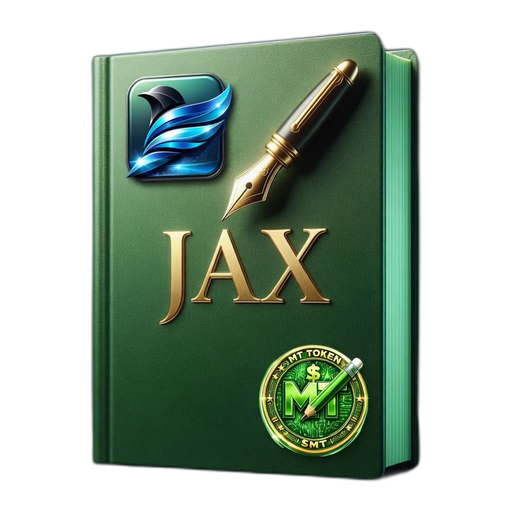
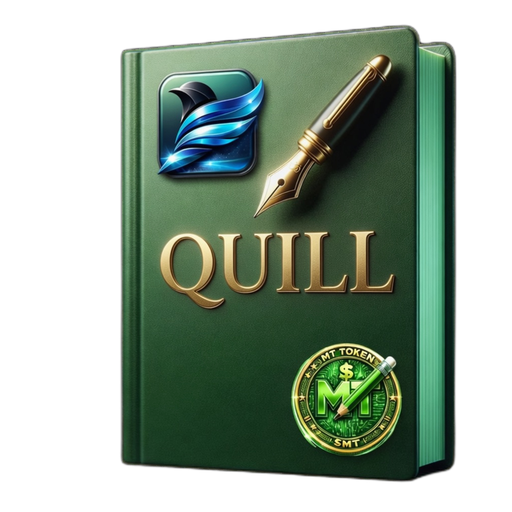
Rename the product to Quill. Xero already uses JAX.
The book mark now says QUILL. Site, desk, feed ping, and docs follow.

diff --git a/src/main.js b/src/main.js
@@ -126,7 +126,7 @@ async function boot() {
   try {
     const session = await request('/api/session');
     if (session.res.status === 503) {
-      bootError = session.data.error || 'JAX access is not configured';
+      bootError = session.data.error || 'Quill access is not configured';
       ready = true;
       render();
       return;
@@ -552,7 +552,7 @@ function fillBank() {
       const names = (bank.connections || []).map((row) => row.institution).filter(Boolean).join(', ');
       if (names) el.textContent = `Connected: ${names}.`;
       else if (bank.connected) el.textContent = 'A Basiq user sits on this desk. Connect a bank to pick the institution.';
-      else el.textContent = 'Basiq is on. Connect a bank opens their consent page. JAX does not keep the bank password.';
+      else el.textContent = 'Basiq is on. Connect a bank opens their consent page. Quill does not keep the bank password.';
       const connections = (bank.connections || [])
         .map((conn) => {
           const accounts = (conn.accounts || [])
@@ -618,7 +618,7 @@ function fillPractice() {
       asks
         .map((ask) => {
           const keeper = keepers.find((k) => k.id === ask.keeperId);
-          return `<article class="pay"><div class="when">${esc(ask.createdAt?.slice(0, 10) || '')} · to ${esc(keeper?.name || 'JAX')}</div><b>${esc(ask.name)}</b><div class="muted">${esc(ask.email)} ${esc(ask.phone)}</div><div class="muted">${esc(ask.message)}</div></article>`;
+          return `<article class="pay"><div class="when">${esc(ask.createdAt?.slice(0, 10) || '')} · to ${esc(keeper?.name || 'Quill')}</div><b>${esc(ask.name)}</b><div class="muted">${esc(ask.email)} ${esc(ask.phone)}</div><div class="muted">${esc(ask.message)}</div></article>`;
         })
         .join('');
   });
@@ -874,8 +874,8 @@ function deskView() {
         <div class="field"><label for="phone">Phone</label><input id="phone" value="${esc(profile.phone)}" /></div>
       </div>
       <div class="field"><label for="email">Email</label><input id="email" value="${esc(profile.email)}" /></div>
-      <label class="check"><input id="jax-auto" type="checkbox" ${profile.jaxAuto ? 'checked' : ''}/> Apply JAX matches at 0.95 or above when a statement is imported</label>
-      <p class="note">JAX here is a rule: same remaining amount, vendor name in the description, date within three days. It is not a trained model and it does not talk to a bank.</p>
+      <label class="check"><input id="jax-auto" type="checkbox" ${profile.jaxAuto ? 'checked' : ''}/> Apply Quill matches at 0.95 or above when a statement is imported</label>
+      <p class="note">Quill here is a rule: same remaining amount, vendor name in the description, date within three days. It is not a trained model and it does not talk to a bank.</p>
       ${
         effectiveKind() === 'partnership'
           ? `<h3>Partners</h3>
@@ -913,7 +913,7 @@ function deskView() {
     </div>
     <div class="group">
       <h3>Bank statements</h3>
-      <p class="note">Import a CSV with date, description, and amount. Money out is negative. High-confidence matches can be applied by JAX.</p>
+      <p class="note">Import a CSV with date, description, and amount. Money out is negative. High-confidence matches can be applied by Quill.</p>
       <button class="solid" type="button" data-act="pick-statement">Import statement CSV</button>
       ${
         unmatched.length
@@ -923,7 +923,7 @@ function deskView() {
                 return `<article class="pay">
                   <div class="when">${esc(longDate(txn.postedOn))} · ${money(txn.amountCents)}</div>
                   <b>${esc(txn.description)}</b>
-                  ${guess.item ? `<div class="muted">JAX ${guess.score.toFixed(2)} · ${esc(guess.item.vendor)} ${esc(longDate(guess.item.date))}</div>` : `<div class="muted">No open bill looks close.</div>`}
+                  ${guess.item ? `<div class="muted">Quill ${guess.score.toFixed(2)} · ${esc(guess.item.vendor)} ${esc(longDate(guess.item.date))}</div>` : `<div class="muted">No open bill looks close.</div>`}
                   ${
                     guess.item
                       ? `<div class="actions"><button class="solid" type="button" data-act="match-txn" data-txn="${esc(txn.id)}" data-bill="${esc(guess.item.billId)}" data-when="${esc(guess.item.originalDate)}">Match</button></div>`
@@ -941,7 +941,7 @@ function deskView() {
       <div id="practice-inbox">Loading…</div>
     </div>
     <div class="group">
-      <h3>Install JAX</h3>
+      <h3>Install Quill</h3>
       <p>The same desk in a native shell. iOS first in Xcode. Mac in Xcode. Windows with Electron, then pack an appx for the Microsoft Store.</p>
       <p class="note">iPhone: on a Mac open <span class="muted">apps/ios/JAX.xcodeproj</span> and Run on a simulator.<br/>Mac: open <span class="muted">apps/macos/JAX.xcodeproj</span> and Run on My Mac.<br/>Windows: in <span class="muted">apps/windows</span> run npm install && npm start. npm run pack builds the Store appx.</p>
       <p class="note">Feed SDK: <span class="muted">sdk/jax-feed</span>. Ping and post with LEDGER_FEED_TOKEN. Lines land on Desk for matching.</p>
@@ -1077,10 +1077,10 @@ function shell(body) {
     </nav>
     <div>
       <header class="top">
-        <div class="brand"><img class="mark" src="/logo.png" width="512" height="512" alt="JAX"/><div><h1>JAX</h1><p>${esc(book?.deskName || 'MT ECO SYSTEM')} · Melbourne dates</p></div></div>
+        <div class="brand"><img class="mark" src="/logo.png" width="512" height="512" alt="Quill"/><div><h1>Quill</h1><p>${esc(book?.deskName || 'MT ECO SYSTEM')} · Melbourne dates</p></div></div>
         <button class="ghost" type="button" data-act="lock">Log out</button>
       </header>
-      <main class="main">${flashMsg ? `<p class="status" role="status">${esc(flashMsg)}</p>` : ''}${body}<p class="foot">JAX by Futuret3ch and MemeTorrent for the MT ECO SYSTEM. ${saved ? `Saved ${esc(saved)}.` : 'Nothing saved yet.'} Dates use Melbourne time.</p></main>
+      <main class="main">${flashMsg ? `<p class="status" role="status">${esc(flashMsg)}</p>` : ''}${body}<p class="foot">Quill by Futuret3ch and MemeTorrent for the MT ECO SYSTEM. ${saved ? `Saved ${esc(saved)}.` : 'Nothing saved yet.'} Dates use Melbourne time.</p></main>
     </div>
     ${sheet?.type === 'bill' ? billSheet() : ''}
     ${sheet?.type === 'pay' ? paySheet() : ''}
@@ -1091,9 +1091,9 @@ function shell(body) {
 
 function lockView() {
   return `<div class="lock"><div class="card">
-    <img class="mark" src="/logo.png" width="512" height="512" alt="JAX"/>
+    <img class="mark" src="/logo.png" width="512" height="512" alt="Quill"/>
     <p class="note" style="letter-spacing:.14em;text-transform:uppercase;font-weight:680">Futuret3ch · MemeTorrent $MT</p>
-    <h1>JAX</h1>
+    <h1>Quill</h1>
     <p class="note">For self-employed people, businesses, and corporations. The desk is locked.</p>
     <p class="note"><a href="/" style="color:inherit">Back to the site</a></p>
     ${bootError ? `<p class="errors">${esc(bootError)}</p>` : ''}
@@ -1109,7 +1109,7 @@ function render() {
   const focusId = focus?.id || '';
   const caret = focus?.selectionStart;
   if (!ready) {
-    root.innerHTML = `<div class="lock"><div class="card"><img class="mark" src="/logo.png" width="512" height="512" alt="JAX"/><h1>JAX</h1><p class="note">Opening…</p></div></div>`;
+    root.innerHTML = `<div class="lock"><div class="card"><img class="mark" src="/logo.png" width="512" height="512" alt="Quill"/><h1>Quill</h1><p class="note">Opening…</p></div></div>`;
     return;
   }
   if (!onAppPath()) {
@@ -1828,15 +1828,15 @@ root.addEventListener('click', (event) => {
       render();
       return;
     }
-    win.document.write(`<!DOCTYPE html><html lang="en-AU"><head><meta charset="utf-8"><title>JAX ${bill.direction === 'in' ? 'Invoice' : 'Bill'}</title>
+    win.document.write(`<!DOCTYPE html><html lang="en-AU"><head><meta charset="utf-8"><title>Quill ${bill.direction === 'in' ? 'Invoice' : 'Bill'}</title>
       <style>body{font-family:Georgia,serif;max-width:640px;margin:40px auto;color:#1b1914}h1{font-size:28px}table{width:100%;border-collapse:collapse}td{padding:8px 0;border-bottom:1px solid #ddd}</style></head><body>
-      <p>JAX · Futuret3ch and MemeTorrent · MT ECO SYSTEM</p>
+      <p>Quill · Futuret3ch and MemeTorrent · MT ECO SYSTEM</p>
       <h1>${bill.direction === 'in' ? 'Invoice' : 'Bill'}</h1>
       <p>${profile.legalName || book.deskName}<br>${profile.abn ? 'ABN ' + profile.abn : ''}<br>${profile.address} ${profile.suburb} ${profile.state} ${profile.postcode}</p>
       <p>To ${bill.vendor}<br>${bill.title}<br>Due ${bill.startsOn}</p>
       <table><tr><td>${bill.title}</td><td style="text-align:right">${formatAud(gst.total)}</td></tr>
       <tr><td>GST</td><td style="text-align:right">${formatAud(gst.gst)}</td></tr></table>
-      <p>This is from the JAX desk. It is not a lodged BAS.</p>
+      <p>This is from the Quill desk. It is not a lodged BAS.</p>
       </body></html>`);
     win.document.close();
     win.focus();

diff --git a/src/site.js b/src/site.js
@@ -15,7 +15,7 @@ function esc(s) {
 const SOLO = [
   'Invoices and quotes',
   'Bills and repeats on one card',
-  'Bank statement import and JAX matching',
+  'Bank statement import and Quill matching',
   'GST and BAS figures',
   'Live reports',
   'Payroll worksheet and super',
@@ -42,14 +42,14 @@ const HIVE = [
 ];
 
 const FEATS = [
-  ['JAX matching', 'Statement lines match bills when the amount, the name, and the date line up.'],
+  ['Quill matching', 'Statement lines match bills when the amount, the name, and the date line up.'],
   ['Bills and repeats', 'A monthly bill stays on one card. Pay or move a single date from there.'],
   ['Invoices and quotes', 'Send what they owe you. Print it with your ABN. Mark it paid when it lands.'],
   ['GST and BAS', 'GST in, GST out, and the BAS figures for the quarter.'],
   ['Bank statements', 'Drop in a statement and match the lines.'],
   ['Payroll', 'Gross, tax withheld, and super on a worksheet.'],
   ['Kilometres', 'ATO cents per kilometre, capped at 5,000 km.'],
-  ['On your phone and computer', 'JAX has an iOS Xcode project, a Mac app, and a Windows app you can run and pack for the Microsoft Store.'],
+  ['On your phone and computer', 'Quill has an iOS Xcode project, a Mac app, and a Windows app you can run and pack for the Microsoft Store.'],
 ];
 
 const MT_HOME = 'https://memetorrent.futuret3ch.com.au';
@@ -86,9 +86,9 @@ export function siteView() {
   return `<div class="site">
     <header class="site-bar">
       <div class="site-brand">
-        <a href="/"><img class="mark" src="/logo.png" width="512" height="512" alt="JAX"/></a>
+        <a href="/"><img class="mark" src="/logo.png" width="512" height="512" alt="Quill"/></a>
         <div>
-          <b>JAX by <a href="${FT_HOME}">Futuret3ch</a> and <a href="${MT_HOME}">MemeTorrent</a></b>
+          <b>Quill by <a href="${FT_HOME}">Futuret3ch</a> and <a href="${MT_HOME}">MemeTorrent</a></b>
           <div class="site-eco">for the <a href="${MT_HOME}">MT ECO SYSTEM</a></div>
         </div>
       </div>
@@ -173,14 +173,14 @@ export function siteView() {
       <section id="keepers">
         <div class="kicker site-eco">Keepers</div>
         <h2 style="font-family:var(--serif);font-size:40px;letter-spacing:-.04em">Accountants and bookkeepers.</h2>
-        <p style="color:#b7c4bc;max-width:52ch">Run a client on JAX. One desk. Their ABN on the print. Their BAS figures from the bills you entered. No partner portal, no extra product names.</p>
+        <p style="color:#b7c4bc;max-width:52ch">Run a client on Quill. One desk. Their ABN on the print. Their BAS figures from the bills you entered. No partner portal, no extra product names.</p>
         <div class="packs">
           <article class="pack"><h3>Accountants</h3><p>Open Tax. G1, 1A, 1B for the quarter. Export the BAS CSV. Print invoices with the client ABN.</p></article>
-          <article class="pack"><h3>Bookkeepers</h3><p>Enter bills, import the statement, let JAX match the lines, mark paid when the money moved.</p></article>
+          <article class="pack"><h3>Bookkeepers</h3><p>Enter bills, import the statement, let Quill match the lines, mark paid when the money moved.</p></article>
           <article class="pack"><h3>Firms</h3><p>Set the profile to company, partnership, or trust. Keep projects on the bills. Put the house on the Roll with no email or phone.</p></article>
         </div>
         <p style="color:#b7c4bc;max-width:52ch">A repeating bill stays on one card. Dates use Melbourne time. Kilometres use the ATO rate for the day of the trip.</p>
-        <p style="margin:18px 0 28px"><a class="go" href="/app" style="display:inline-flex;min-height:44px;border-radius:999px;padding:0 18px;align-items:center;background:#7dffb1;color:#06140e;text-decoration:none;font-weight:680">Open JAX</a></p>
+        <p style="margin:18px 0 28px"><a class="go" href="/app" style="display:inline-flex;min-height:44px;border-radius:999px;padding:0 18px;align-items:center;background:#7dffb1;color:#06140e;text-decoration:none;font-weight:680">Open Quill</a></p>
         <div class="packs">
           <article class="pack">
             <h3>Sign up as a keeper</h3>
@@ -200,9 +200,9 @@ export function siteView() {
           </article>
           <article class="pack">
             <h3>Ask a keeper</h3>
-            <p>The message goes to that keeper’s inbox. If the list is empty, it still saves for JAX.</p>
+            <p>The message goes to that keeper’s inbox. If the list is empty, it still saves for Quill.</p>
             <form id="ask-form">
-              <div class="field"><label for="a-keeper">Keeper</label><select id="a-keeper"><option value="">Anyone at JAX</option></select></div>
+              <div class="field"><label for="a-keeper">Keeper</label><select id="a-keeper"><option value="">Anyone at Quill</option></select></div>
               <div class="field"><label for="a-name">Your name</label><input id="a-name" required /></div>
               <div class="field"><label for="a-email">Your email</label><input id="a-email" type="email" required /></div>
               <div class="field"><label for="a-phone">Phone</label><input id="a-phone" /></div>
@@ -266,15 +266,15 @@ export function siteView() {
       <footer class="site-foot">
         <div class="foot-grid">
           <div>
-            <b>JAX</b>
-            <a href="#features">How JAX works</a>
+            <b>Quill</b>
+            <a href="#features">How Quill works</a>
             <a href="#roll">The Roll</a>
             <a href="#find">Find a keeper</a>
             <a href="#plans">Plans</a>
             <a href="/app">Open the desk</a>
           </div>
           <div>
-            <b>JAX for</b>
+            <b>Quill for</b>
             <a href="#keepers">Accountants and bookkeepers</a>
             <a href="#plans">Self-employed</a>
             <a href="#plans">Businesses</a>
@@ -289,7 +289,7 @@ export function siteView() {
             <a href="mailto:Support@futuret3ch.com.au">Support</a>
           </div>
         </div>
-        <p style="margin-top:22px">JAX by Futuret3ch and MemeTorrent for the MT ECO SYSTEM.</p>
+        <p style="margin-top:22px">Quill by Futuret3ch and MemeTorrent for the MT ECO SYSTEM.</p>
         <p>© ${esc(year)} MT-ECO SYSTEM — Developed by Futuret3ch and MemeTorrent. All core components self-hosted and self-built.</p>
         <div class="foot-links">${MT_FOOT.map(([label, href]) => `<a href="${esc(href)}">${esc(label)}</a>`).join('')}</div>
         <p class="foot-note">Built here. Hosted here. Keys stay with you.</p>
@@ -339,7 +339,7 @@ export function bindSite() {
   const paintKeepers = (keepers) => {
     if (askSelect) {
       askSelect.innerHTML =
-        '<option value="">Anyone at JAX</option>' +
+        '<option value="">Anyone at Quill</option>' +
         keepers.map((k) => `<option value="${esc(k.id)}">${esc(k.name)}${k.firm ? ' · ' + esc(k.firm) : ''}</option>`).join('');
     }
     if (!list) return;

diff --git a/lib/server.js b/lib/server.js
@@ -146,11 +146,11 @@ export async function handle(req, res) {
   const pathname = url.pathname.replace(/\/$/, '') || '/';
   try {
     if (pathname === '/api/health' && req.method === 'GET') {
-      return send(res, 200, { ok: true, name: 'JAX', by: 'Futuret3ch and MemeTorrent' });
+      return send(res, 200, { ok: true, name: 'Quill', by: 'Futuret3ch and MemeTorrent' });
     }
     if (pathname === '/api/session' && req.method === 'GET') {
       if (!process.env.LEDGER_ACCESS_CODE || !process.env.LEDGER_SESSION_SECRET) {
-        return send(res, 503, { error: 'JAX access is not configured' });
+        return send(res, 503, { error: 'Quill access is not configured' });
       }
       if (!sessionOk(req)) return send(res, 401, { error: 'Locked' });
       return send(res, 200, { ok: true });
@@ -184,10 +184,10 @@ export async function handle(req, res) {
       if (presented) {
         if (!feedTokenConfigured()) return send(res, 503, { error: 'No bank feed is connected' });
         if (!feedBearerOk(req)) return send(res, 401, { error: 'Feed token is not right' });
-        return send(res, 200, { ok: true, name: 'JAX', feed: true });
+        return send(res, 200, { ok: true, name: 'Quill', feed: true });
       }
       if (!sessionOk(req)) return send(res, 401, { error: 'Locked' });
-      return send(res, 200, { ok: true, name: 'JAX', feed: feedTokenConfigured() });
+      return send(res, 200, { ok: true, name: 'Quill', feed: feedTokenConfigured() });
     }
     if (pathname === '/api/feed' && req.method === 'POST') {
       const presented = presentedBearer(req);

diff --git a/index.html b/index.html
@@ -5,13 +5,13 @@
     <meta name="viewport" content="width=device-width, initial-scale=1, viewport-fit=cover" />
     <meta name="theme-color" content="#12362f" />
     <meta name="apple-mobile-web-app-capable" content="yes" />
-    <meta name="apple-mobile-web-app-title" content="JAX" />
+    <meta name="apple-mobile-web-app-title" content="Quill" />
     <meta name="mobile-web-app-capable" content="yes" />
     <meta
       name="description"
-      content="JAX by Futuret3ch and MemeTorrent for the MT ECO SYSTEM. For self-employed people, businesses, and corporations."
+      content="Quill by Futuret3ch and MemeTorrent for the MT ECO SYSTEM. For self-employed people, businesses, and corporations."
     />
-    <title>JAX · MT ECO SYSTEM</title>
+    <title>Quill · MT ECO SYSTEM</title>
     <link rel="icon" href="/favicon.svg" type="image/svg+xml" />
     <link rel="icon" href="/icon-192.png" type="image/png" sizes="192x192" />
     <link rel="apple-touch-icon" href="/icon-180.png" />

diff --git a/apps/windows/main.js b/apps/windows/main.js
@@ -4,7 +4,7 @@ function createWindow() {
   const win = new BrowserWindow({
     width: 1100,
     height: 760,
-    title: 'JAX',
+    title: 'Quill',
     webPreferences: {
       contextIsolation: true,
     },

diff --git a/sdk/jax-feed/src/index.js b/sdk/jax-feed/src/index.js
@@ -1,5 +1,5 @@
 /**
- * JAX Feed SDK
+ * Quill Feed SDK
  * POST /api/feed with Bearer token.
  * amountCents is signed: money out is negative.
  */

diff --git a/README.md b/README.md
@@ -1,4 +1,4 @@
-# JAX
+# Quill
 
 Books for the MT ECO SYSTEM, by Futuret3ch and MemeTorrent. Schedule money going out and money coming in, in Australian dollars, then record what was actually paid.
 
@@ -10,9 +10,9 @@ There is no sample data. The desk starts empty.
 
 Unlock with the access code, then add a bill. Choose **We pay** or **They pay us**, the amount, GST, the first due date, and how it repeats. Due shows the next open date of each bill. Plan groups a repeat onto one card. Tax builds a BAS worksheet from the desk. Desk holds the business profile and statement import.
 
-JAX matching is a rule: remaining amount, vendor name in the description, date within three days. It is not a trained model.
+Quill matching is a rule: remaining amount, vendor name in the description, date within three days. It is not a trained model.
 
-Bank login uses Basiq Open Banking. Connect a bank is shown only when `BASIQ_API_KEY` is set (the key from dashboard.basiq.io, used as Basic auth, not re-encoded). That button opens Basiq’s consent page. JAX does not keep bank passwords. After consent, Pull statements copies posted lines onto the desk (last 90 days). Without the key, the desk says bank login is off.
+Bank login uses Basiq Open Banking. Connect a bank is shown only when `BASIQ_API_KEY` is set (the key from dashboard.basiq.io, used as Basic auth, not re-encoded). That button opens Basiq’s consent page. Quill does not keep bank passwords. After consent, Pull statements copies posted lines onto the desk (last 90 days). Without the key, the desk says bank login is off.
 
 `POST /api/feed` still accepts statement lines from a logged-in desk session, or with `Authorization: Bearer` when `LEDGER_FEED_TOKEN` is set. Test from Desk → Bank feed, or `./jax-feed ping` then `./jax-feed post --on YYYY-MM-DD --desc TEXT --cents -7500`.
 

diff --git a/sdk/jax-feed/README.md b/sdk/jax-feed/README.md
@@ -1,8 +1,8 @@
-# JAX Feed SDK
+# Quill Feed SDK
 
-Post statement lines into JAX. Money out is negative cents. The feed does not pull from a bank. A connector, a CSV watcher, or this CLI posts to `POST /api/feed`.
+Post statement lines into Quill. Money out is negative cents. The feed does not pull from a bank. A connector, a CSV watcher, or this CLI posts to `POST /api/feed`.
 
-The desk also has Bank login through Basiq. This SDK is the machine feed: logged-in posts use the desk session; connectors use the Bearer token. To post a test line without a bank, unlock JAX → Desk → Bank feed → Post a test line.
+The desk also has Bank login through Basiq. This SDK is the machine feed: logged-in posts use the desk session; connectors use the Bearer token. To post a test line without a bank, unlock Quill → Desk → Bank feed → Post a test line.
 
 ## Test ping
 
@@ -10,7 +10,7 @@ The desk also has Bank login through Basiq. This SDK is the machine feed: logged
 ./jax-feed ping
 ```
 
-From this repo, `LEDGER_FEED_TOKEN` loads from `/root/ledger/.env.local` if unset. Expect `{ "ok": true, "name": "JAX", "feed": true }`.
+From this repo, `LEDGER_FEED_TOKEN` loads from `/root/ledger/.env.local` if unset. Expect `{ "ok": true, "name": "Quill", "feed": true }`.
 
 ```bash
 cd sdk/jax-feed
@@ -46,4 +46,4 @@ await feed.post([
 `POST /api/feed` header: `Authorization: Bearer <token>`.
 Body: `{ "transactions": [{ "postedOn": "YYYY-MM-DD", "description": "...", "amountCents": -7500, "reference": "" }] }`.
 
-Lines already on the desk (same date, amount, description) are skipped. Open JAX → Desk to match them.
+Lines already on the desk (same date, amount, description) are skipped. Open Quill → Desk to match them.

diff --git a/apps/README.md b/apps/README.md
@@ -1,4 +1,4 @@
-# JAX native shells
+# Quill native shells
 
 These open the live desk at `https://ledger-futuret3ch.vercel.app/app`. They are not listed on the stores yet. You can run them now.
 
@@ -7,7 +7,7 @@ These open the live desk at `https://ledger-futuret3ch.vercel.app/app`. They are
 On a Mac:
 
 ```bash
-open apps/ios/JAX.xcodeproj
+open apps/ios/Quill.xcodeproj
 ```
 
 Select an iPhone simulator, press Run. Set your Apple team under Signing if you want a device.
@@ -15,7 +15,7 @@ Select an iPhone simulator, press Run. Set your Apple team under Signing if you 
 ## Mac
 
 ```bash
-open apps/macos/JAX.xcodeproj
+open apps/macos/Quill.xcodeproj
 ```
 
 Run on My Mac.
@@ -28,7 +28,7 @@ npm install
 npm start
 ```
 
-That opens JAX on Windows. To build Store packages:
+That opens Quill on Windows. To build Store packages:
 
 ```bash
 npm run pack
